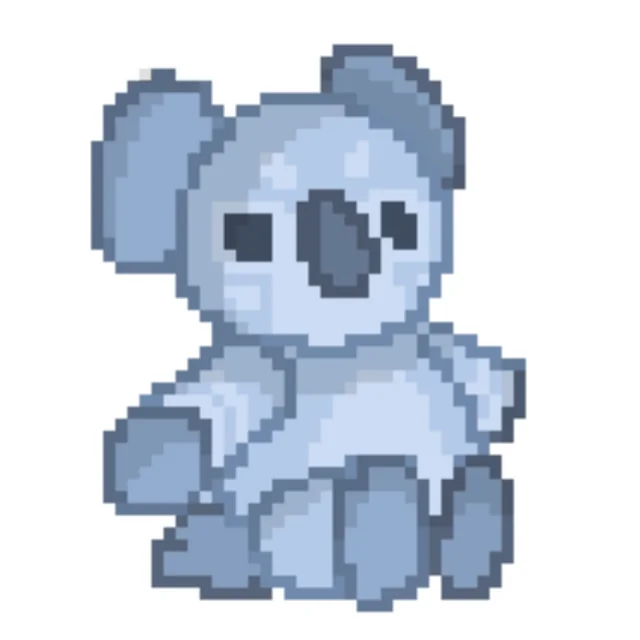
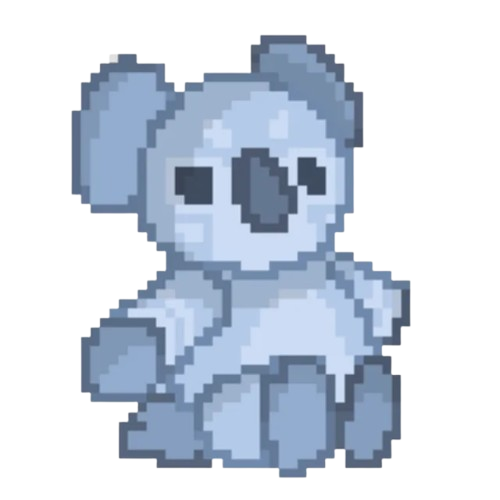
Valamis

diff --git a/public/script.js b/public/script.js
@@ -2,13 +2,20 @@ let pelinKorkeus;
 let pelinLeveys;
 
 let taustakuva;
-
+let pelastettavakuva
 let mailanYSijainti;
-let mailanKorkeus = 20;
+let mailanKorkeus = 40;
 let mailanLeveys = 40;
+
+let olioLista = [];
+let olioAjastin;
+
+let pisteet = 0;
+let elamat = 10;
 
 function preload(){
     taustakuva = loadImage('kuvat/tausta.jpg');
+    pelastettavakuva = loadImage('kuvat/koala.png');
 }
 
 function setup(){
@@ -16,15 +23,95 @@ function setup(){
     pelinKorkeus = windowWidth / 3;
     mailanYSijainti = pelinKorkeus - mailanKorkeus;
     createCanvas(pelinLeveys,pelinKorkeus);
+    
+    
+}
+
+function start(){
+    olioLista = []
+    pisteet = 0;
+    elamat = 10
+    clearTimeout(olioAjastin);
+    loop();
+    luoOlio();
+    
 }
 function draw(){
     background("#8a769c");
     image(taustakuva,0,0,pelinLeveys,pelinKorkeus);
+   //image(pelastettavakuva,50,50,50,50);
+    
+    liikutaOlioita();
     piirraMaila();
+    PiirraUI();
     
 }
 
 function piirraMaila(){
     rect(mouseX,mailanYSijainti,mailanLeveys,mailanKorkeus);
 
+}
+
+
+function luoOlio(){
+    let uusiOlio = new Pelastettava();
+    olioLista.unshift(uusiOlio);
+    olioAjastin = setTimeout(luoOlio,2000);
+}
+
+function liikutaOlioita(){
+    olioLista.forEach(function(olio,index){
+        olio.liiku();
+
+        if(olio.Y > pelinKorkeus){
+            olioLista.splice(index,1);
+            elamat --;
+            if(elamat <= 0){
+                gameOver();
+            }
+        }
+        if(olio.X > pelinLeveys){
+            olioLista.splice(index,1);
+            pisteet ++;
+        }
+    });
+}
+
+function PiirraUI(){
+    textSize(25);
+    textAlign(screenLeft,TOP);
+    fill("#4d596e");
+    text("Score: " + pisteet + "\nLives: " + elamat,5, 10);
+}
+
+function gameOver(){
+    noLoop();
+    textSize(50);
+    fill("#322e3b")
+    textAlign(CENTER);
+    text("GAME OVER",pelinLeveys / 2, pelinKorkeus / 2);
+}
+
+class Pelastettava{
+    constructor(){
+        this.X = -1;
+        this.Xnopeus = random(1,5);
+        this.Y = random(0,50);
+        this.size = pelinKorkeus / 10;
+        this.Ynopeus = -2.5;
+        this.painovoima = 0.05;
+    }
+
+    liiku(){
+        this.X = this.X + this.Xnopeus;
+        this.Ynopeus += this.painovoima;
+        if(this.Y + this.size / 2 > mailanYSijainti){
+            if(this.X > mouseX && this.X < mouseX + mailanLeveys){
+                this.Ynopeus = -abs(this.Ynopeus);
+
+            }
+        }
+        this.Y = this.Y + this.Ynopeus;
+        image(pelastettavakuva,this.X, this.Y,this.size,this.size);
+    }
 }

diff --git a/server.js b/server.js
@@ -1,1 +1,10 @@
-import expres from 'express';
+import express from 'express';
+
+const app = express();
+const port = 3000;
+
+app.use(express.static('public'));
+
+app.listen(port, ()=>{
+    console.log(`server running at http://localhost:${port}`);
+});

diff --git a/public/index.html b/public/index.html
@@ -9,6 +9,7 @@
     <script src="script.js"></script>
 </head>
 <body>
-
+     <h1>Save the koala</h1>
+     <button onclick="start()" type="button"> Play </button>
 </body>
 </html>
